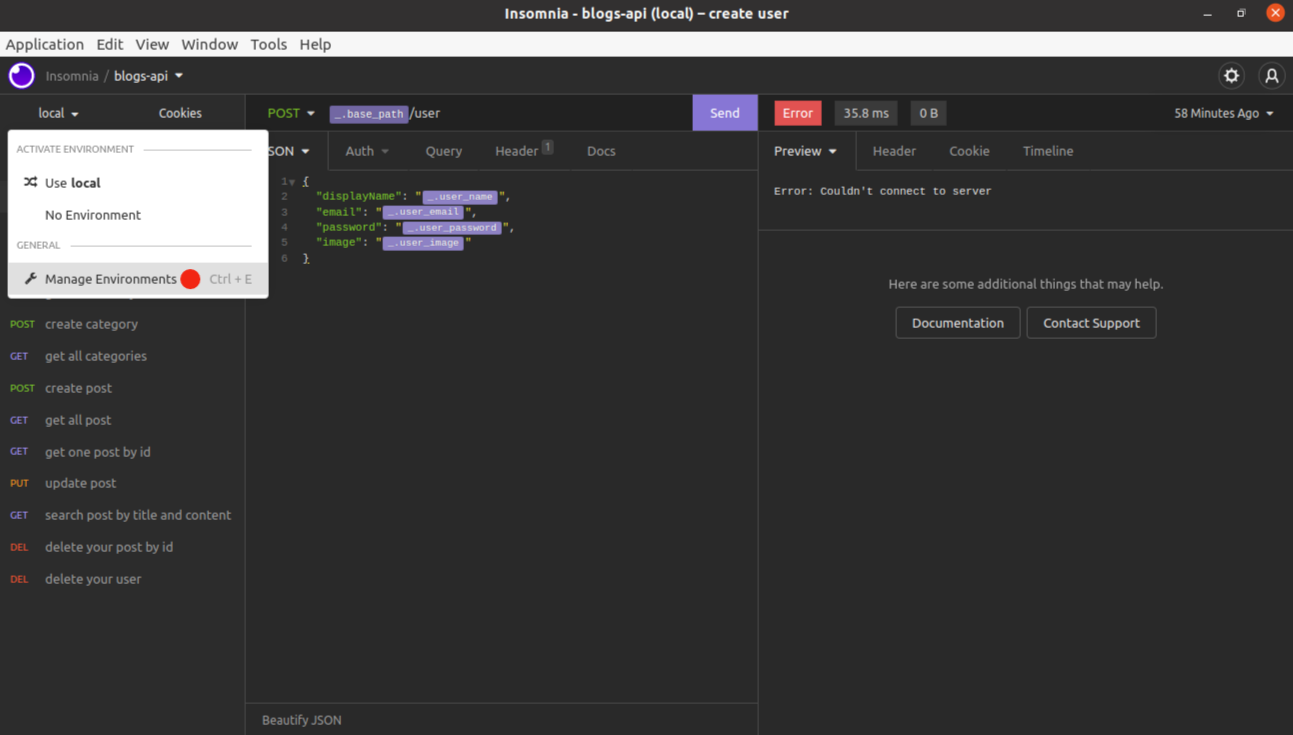
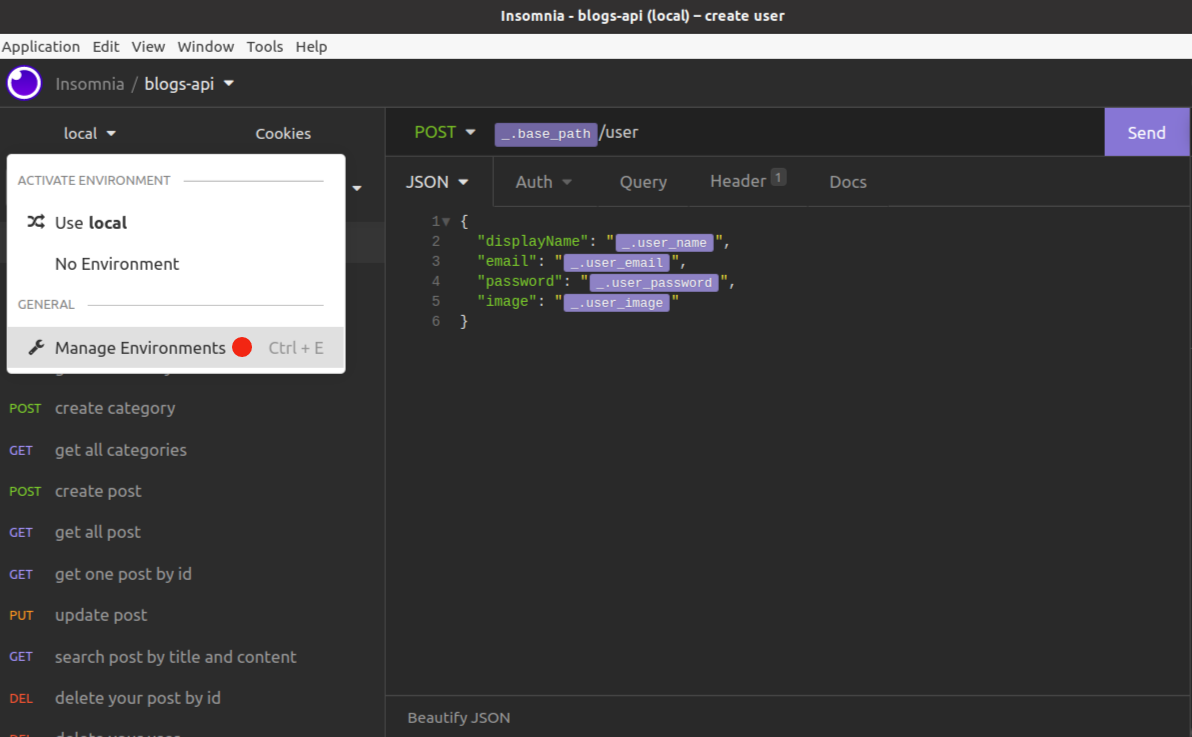
Altera imagens Insomnia

diff --git a/README.md b/README.md
@@ -29,11 +29,11 @@ Projeto Node.js desenvolvido por [Lindsey Oliva Fontana](https://www.linkedin.co
  Instale o Insomnia: [link](https://insomnia.rest/download)
  <br />
  
-- Baixe [esta collection](/Insomnia/Insomnia_2022-09-08.json) **e importe no seu Insomnia**.
-- Selecione a collection `Sandbox` e o environment `XYZ`.
+- Baixe [esta collection](/Insomnia/Insomnia_2022-09-08.json) **e importe no seu Insomnia** [Documentação Insomnia](https://docs.insomnia.rest/insomnia/import-export-data).
+- Selecione a collection `local`.
 ![Imagem da tela de seleção da collection no Insomnia!](/Insomnia/configurar-insomnia.png) 
 
-- Entre em `Manage Environments` e edite o environment `local`. Será necessário criar um usuário fictício, para isso altere os seguintes valores: 
+- Entre em `Manage Environments` e edite o environment `local`. Será necessário criar um usuário fictício, para isso insira os seguintes valores: 
   * user_name (mínimo 8 caracteres)
   * user_email (user@mail.com)
   * user_password
